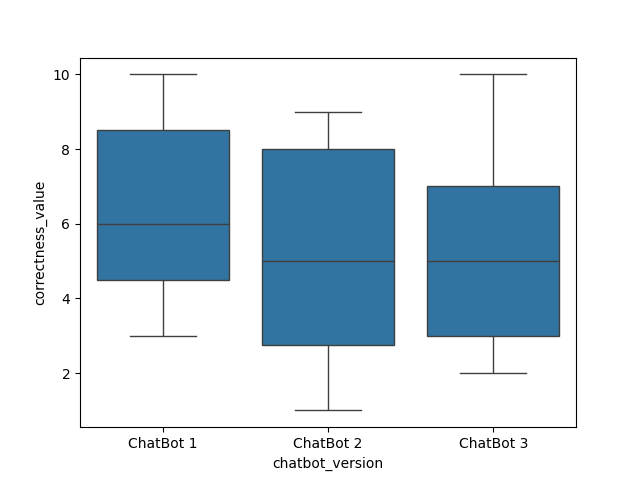
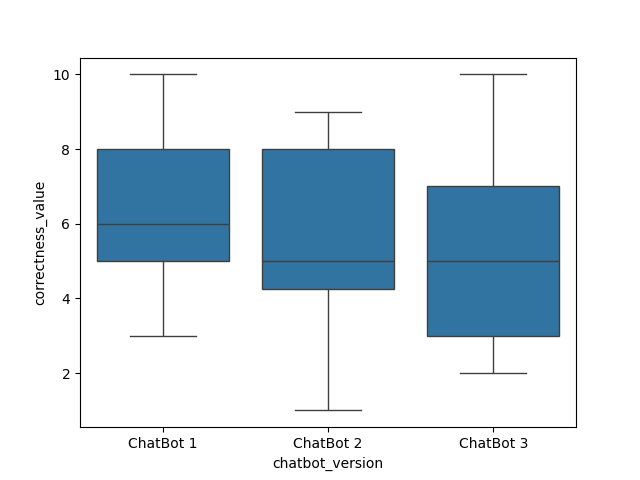
Revert "evaluation classification"
This reverts commit 43668350bb2b1a1ca925bf22bc5e10ddbe270719.

Changed region(s): [[0.4062, 0.5938, 0.625, 0.75], [0.125, 0.5312, 0.375, 0.5938], [0.125, 0.25, 0.375, 0.3125]]

diff --git a/evaluation.py b/evaluation.py
@@ -4,8 +4,8 @@ import pandas as pd
 import statsmodels.api as sm
 from statsmodels.formula.api import ols
 import scipy.stats as stats
-#from simpletransformers.ner import NERModel
-import re
+from simpletransformers.ner import NERModel
+import argparse
 np.set_printoptions(legacy='1.25')
 
 def intitializeClient():
@@ -44,7 +44,7 @@ def get_db_metrics_chatbot(botver: str):
                 assistant_messages.append(content)
             chat_messages.append(item["content"])
         chat_length.append(len(chat_messages))
-
+    
     metrics = {
         "total_users": leng,
         "trusted_users": trusted_users,
@@ -58,12 +58,12 @@ def get_db_metrics_chatbot(botver: str):
         "std_correctness_users": np.std(correctness),
         "std_experience_users": np.std(experience)
     }
-    #print(len(metrics["chatbot_history"]))
+    print(metrics["mean_chat_length"])
     return metrics
 
 def preprocess_anova(test: str):
     client = intitializeClient()
-    response = client.table("evaluation_submissions").select("chatbot_used, confidence_value, correctness_value, experience_level, age, duration_until_conversation_end, gender")\
+    response = client.table("evaluation_submissions").select("chatbot_used, confidence_value, correctness_value, experience_level, age, duration_until_conversation_end")\
         .execute()
 
     bot_list = []
@@ -72,7 +72,6 @@ def preprocess_anova(test: str):
     exp_list = []
     age_list = []
     duration_list = []
-    gender_list = []
 
     data_conf = {
         'chatbot_version': bot_list,
@@ -99,11 +98,6 @@ def preprocess_anova(test: str):
         'duration_until_conversation_end': duration_list
     }
 
-    data_gender = {
-        "chatbot_version": bot_list,
-        "gender": gender_list
-    }
-
     for dict in response.data:
         bot_list.append(dict['chatbot_used'])
         conf_list.append(dict['confidence_value'])
@@ -111,9 +105,7 @@ def preprocess_anova(test: str):
         exp_list.append(dict['experience_level'])
         age_list.append(dict['age'])
         duration_list.append(dict['duration_until_conversation_end'])
-        gender_list.append(dict["gender"])
     
-
     if test == 'confidence':
         return data_conf
     elif test == 'correctness':
@@ -124,9 +116,6 @@ def preprocess_anova(test: str):
         return data_age
     elif test == 'time':
         return data_time
-    elif test == "gender":
-        data_gender["gender"] = ["Female" if x == "Woman" else x for x in gender_list]
-        return data_gender
 
 def anova_test(dependent_var: str):
     df = preprocess_anova(dependent_var)
@@ -135,9 +124,6 @@ def anova_test(dependent_var: str):
     anova_table = sm.stats.anova_lm(model, typ=2)
 
     print(anova_table)
-
-def aggregate_hedgeversions(botlist):
-    return ["ChatBot 2" if x == "ChatBot 3" else x for x in botlist]
 
 def preprocess_chi():
     client = intitializeClient()
@@ -156,8 +142,6 @@ def preprocess_chi():
         bot_list.append(dict['chatbot_used'])
         trust_list.append(dict['follows_advice'])
     
-    #df["chatbot_version"] = aggregate_hedgeversions(bot_list)
-
     return df
 
 def chi_squared():
@@ -166,10 +150,6 @@ def chi_squared():
 
     chi2, p, dof, expected = stats.chi2_contingency(contingency)
 
-    n = contingency.to_numpy().sum()  # total sample size
-    cramers_v = np.sqrt(chi2 / (n * (min(contingency.shape)-1)))
-
-    print("Cramér's V:", cramers_v)
     print("Chi2:", chi2)
     print("p-value:", p)
     print("Degrees of freedom:", dof)
@@ -203,75 +183,35 @@ def hedge_multiclassification():
 
 def hedge_classification():
     from huggingface_hub import InferenceClient
-    hedge_probs = []
-    non_hedge_probs = []
-    highest_labels = []
 
     metrics = get_db_metrics_chatbot("ChatBot 1")
     messages = metrics["chatbot_history"]
-    input_strings = split_sentences(messages)
 
     client = InferenceClient(
         provider="hf-inference",
         api_key="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",
     )
 
-    for s in input_strings:
+    for item in messages:
         result = client.text_classification(
-            s,
+            item,
             model="ChrisLiewJY/BERTweet-Hedge",
         )
 
-        for item in result:
-            if item.label == "LABEL_1":
-                hedge_probs.append(item.score)
-            else:
-                non_hedge_probs.append(item.score)
-        
-        best = max(result, key=lambda x: x.score)
-        best_label = best.label
-        highest_labels.append(best_label)
-    
-    mean_hedge_prob = np.mean(hedge_probs)
-    mean_non_hedge_prob = np.mean(non_hedge_probs)
-    print(f"Mean Probability of hedge occurence: {mean_hedge_prob}\n Mean Probability of no hedge occurence: {mean_non_hedge_prob}")
-    print(f"Hedged Sentences: {highest_labels.count("LABEL_1")}\nNon-hedged Sentences: {highest_labels.count("LABEL_0")}")
-
-def hedge_classification2():
-    from transformers import pipeline
-
-    hedge_probs = []
-    non_hedge_probs = []
-    highest_labels = []
-
-    metrics = get_db_metrics_chatbot("ChatBot 1")
-    messages = metrics["chatbot_history"]
-    input_strings = split_sentences(messages)
-    
-    pipe = pipeline(model="ChrisLiewJY/BERTweet-Hedge")
-    pipe("I am not sure")
-
-def split_sentences(strings):
-    sentences = []
-    for s in strings:
-        cleaned = s.replace("\n", " ")
-        parts = re.split(r'(?<=[.!?])\s+', cleaned.strip())
-        sentences.extend(parts)
-    return sentences
+        print(result)
 
 #chi_squared()
-#anova_test('correctness')
-#hedge_multiclassification()
-hedge_classification2()
+#anova_test('confidence')
+#hedge_classification()
 #bot1_metrics = get_db_metrics_chatbot("ChatBot 1")
-#bot2_metrics = get_db_metrics_chatbot("ChatBot 2")
-#bot3_metrics = get_db_metrics_chatbot("ChatBot 3")
+bot2_metrics = get_db_metrics_chatbot("ChatBot 2")
+bot3_metrics = get_db_metrics_chatbot("ChatBot 3")
 
 """ ---VISUALIZATION--- """
 import seaborn as sns
 import matplotlib.pyplot as plt
 
-def visualize_metrics(metric: str):
+def visualize_metrics():
     metrics_list = []
     metrics_list.append(bot1_metrics)
     metrics_list.append(bot2_metrics)
@@ -279,21 +219,10 @@ def visualize_metrics(metric: str):
 
     total_users_list = []
     trusted_users_list = []
-    mean_chathistory_length = []
-    mean_assistant_messages_length = []
 
     for x in metrics_list:
-        ch_list = []
-        if metric == "users":
-            total_users_list.append(x["total_users"])
-            trusted_users_list.append(x["trusted_users"])
-        elif metric == "chathistory":
-            mean_chathistory_length.append(x["mean_chat_length"])
-        
-            for chat in x["chatbot_history"]:
-                ch_list.append(sum(1 for ch in chat if ch.isalpha()))
-            mean_assistant_messages_length.append(np.mean(ch_list))
-
+        total_users_list.append(x["total_users"])
+        trusted_users_list.append(x["trusted_users"])
 
     total_users = {
         "chatbot_version": [1, 2, 3],
@@ -305,39 +234,15 @@ def visualize_metrics(metric: str):
         "trusted_users": trusted_users_list
     }
 
-    chat_length = {
-        "chatbot_version": [1, 2, 3],
-        "mean_chathistory_length": mean_chathistory_length
-    }
-
-    message_length = {
-        "chatbot_version": [1, 2, 3],
-        "mean_chatmessage_length": mean_assistant_messages_length
-    }
-
-    df1 = pd.DataFrame(total_users)
-    df2 = pd.DataFrame(trusted_users)
-
-    df = pd.merge(df1, df2, on="chatbot_version")
-
-    df["not_trusted"] = df["total_users"] - df["trusted_users"]
-
-    df.plot(x="chatbot_version", y=["trusted_users", "not_trusted"], kind="bar", stacked=True)
-    plt.ylabel("Number of users")
-    plt.title("Trusted vs Not Trusted per Chatbot Version")
+    f, axs = plt.subplots(1, 2, figsize=(8, 4))
+    sns.barplot(data=total_users, x="chatbot_version", y="total_users", ax=axs[0])
+    sns.barplot(data=trusted_users, x="chatbot_version", y="trusted_users", ax=axs[1])
     plt.show()
-
-    #f, axs = plt.subplots(1, 2, figsize=(8, 4))
-    #sns.barplot(data=chat_length, x="chatbot_version", y="mean_chathistory_length", ax=axs[0])
-    #sns.barplot(data=message_length, x="chatbot_version", y="mean_chatmessage_length", ax=axs[1])
-    #plt.subplots_adjust(wspace=0.5)
-    #plt.show()
 
 def visualize_anova():
-    df = preprocess_anova("gender")
-    #sns.boxplot(data=df, x="chatbot_version", y="duration_until_conversation_end", showfliers = False)
-    sns.displot(data=df, hue="chatbot_version", x="gender", multiple="stack")
+    df = preprocess_anova("age")
+    sns.boxplot(data=df, x="chatbot_version", y="age")
     plt.show()
 
-#visualize_metrics("users")
+#visualize_metrics()
 #visualize_anova()
